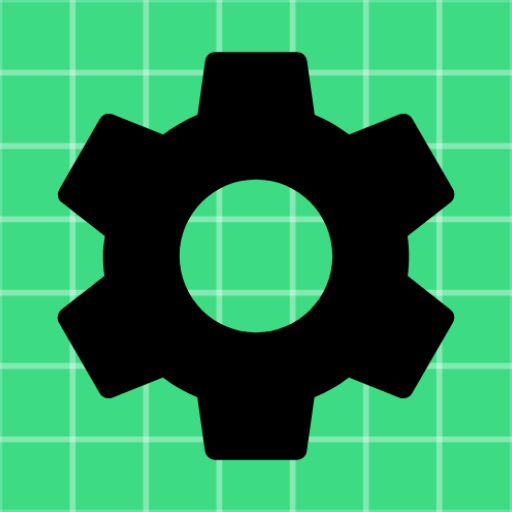
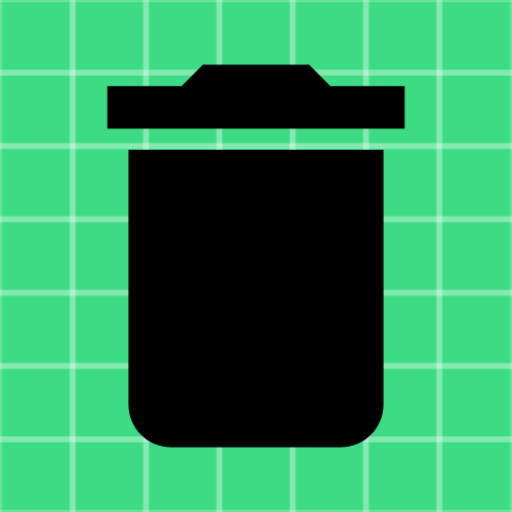
Delete Circuit is done Add Ex to circuit is lacking the onclick

Changed region(s): [[0.0938, 0.0938, 0.9062, 0.9062], [0.3438, 0.3438, 0.6562, 0.6562]]

diff --git a/app/src/main/java/pt/selfgym/ui/workouts/EditAdapter.java b/app/src/main/java/pt/selfgym/ui/workouts/EditAdapter.java
@@ -120,12 +120,15 @@ public class EditAdapter extends RecyclerView.Adapter<RecyclerView.ViewHolder> {
     class ViewHolderCircuit extends RecyclerView.ViewHolder {
         public EditText laps, rest;
         public RecyclerView exs;
+        public ImageButton addExerciseCircuit, deleteCircuit;
 
         public ViewHolderCircuit(View itemView) {
             super(itemView);
             this.laps = (EditText) itemView.findViewById(R.id.lapsinput);
             this.rest = (EditText) itemView.findViewById(R.id.restinputcircuit);
             this.exs = (RecyclerView) itemView.findViewById(R.id.exercisesCircuit);
+            this.addExerciseCircuit = (ImageButton) itemView.findViewById(R.id.addExerciseCircuit);
+            this.deleteCircuit = (ImageButton)  itemView.findViewById(R.id.deleteCircuit);
         }
     }
 
@@ -375,6 +378,22 @@ public class EditAdapter extends RecyclerView.Adapter<RecyclerView.ViewHolder> {
             EditAdapter adapter = new EditAdapter(workoutCircuit, context);
             viewHolder5.exs.setLayoutManager(new LinearLayoutManager(layoutInflater.getContext()));
             viewHolder5.exs.setAdapter(adapter);
+
+            viewHolder5.addExerciseCircuit.setOnClickListener(new View.OnClickListener() {
+                @Override
+                public void onClick(View view) {
+                    //TODO: Do your thang Diogo
+                }
+            });
+
+            viewHolder5.deleteCircuit.setOnClickListener(new View.OnClickListener() {
+                @Override
+                public void onClick(View view) {
+                    workout.getWorkoutComposition().remove(position);
+                    notifyDataSetChanged();
+                }
+            });
+
             holdersList.add(viewHolder5);
 
         } else {
